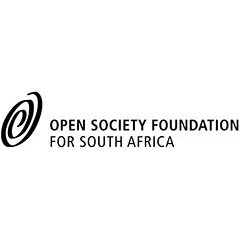
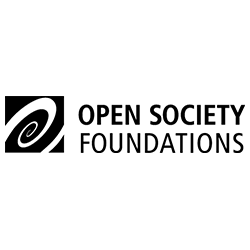
fix footer copyright style, add off and innovation edge to partners on homepage

Changed region(s): [[0.0, 0.3792, 1.0, 0.6125]]

diff --git a/index.html b/index.html
@@ -121,6 +121,8 @@ layout: base
         <a class="col-xs-6 col-sm-4 col-md-3 col-lg-2" href=""><img src="{{ site.baseurl }}/img/collaborators/indigo.png"></a>  
         <a class="col-xs-6 col-sm-4 col-md-3 col-lg-2" href=""><img src="{{ site.baseurl }}/img/collaborators/mavc.svg"></a>  
         <a class="col-xs-6 col-sm-4 col-md-3 col-lg-2" href=""><img src="{{ site.baseurl }}/img/collaborators/c4a.png"></a>
+        <a class="col-xs-6 col-sm-4 col-md-3 col-lg-2" href=""><img src="{{ site.baseurl }}/img/collaborators/innovationedge.png"></a>
+        <a class="col-xs-6 col-sm-4 col-md-3 col-lg-2" href=""><img src="{{ site.baseurl }}/img/collaborators/osf.png"></a>
       </div>
 
 		</div>

diff --git a/css/main.scss b/css/main.scss
@@ -756,8 +756,8 @@ box-shadow: inset 0px 5px 17px -1px rgba(230,230,230,0.63);
 
 	.footer-copyright {
 		padding: 20px 0px;
-		font-size: 12px;
-		color: #f8f8f8;
+		font-size: 14px;
+		color: #fff;
 		text-align: center;
 	}
 
